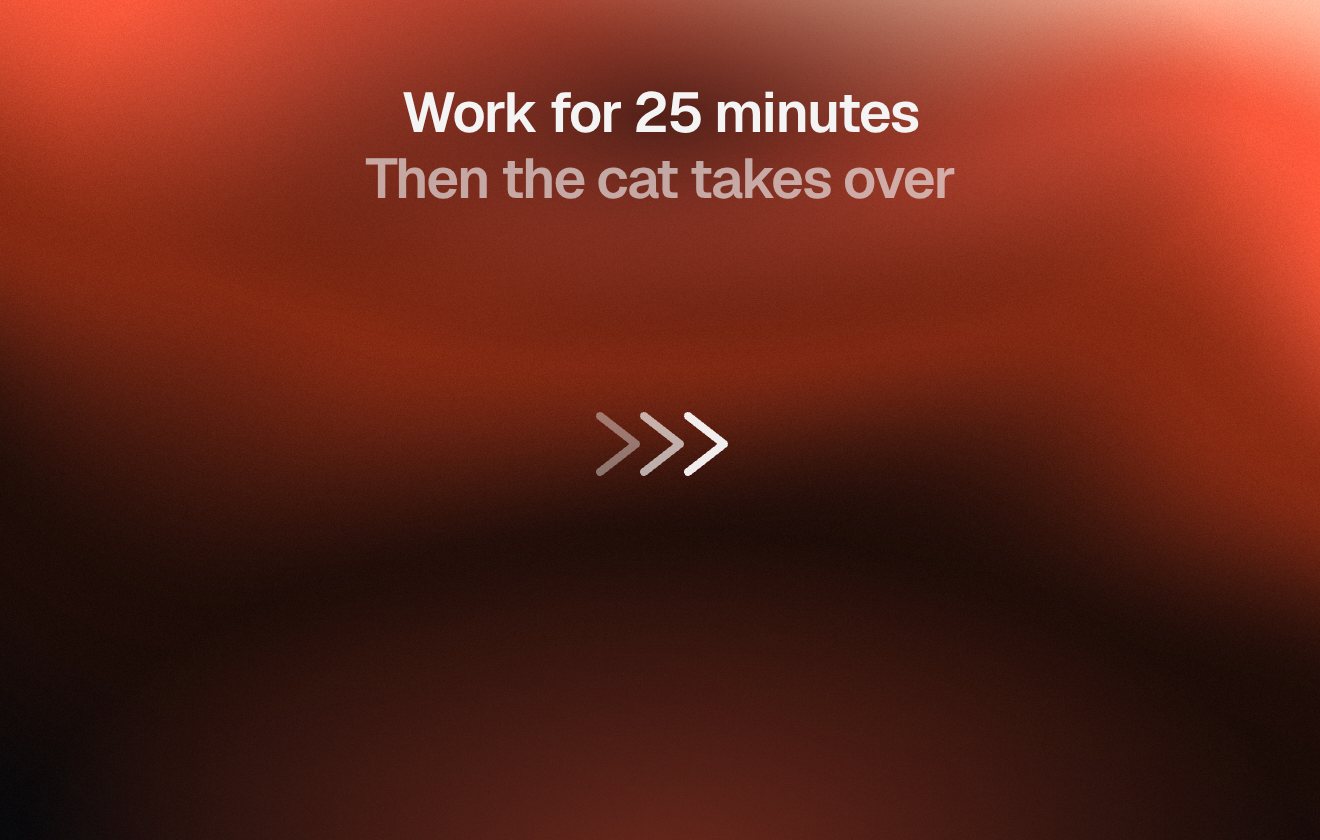
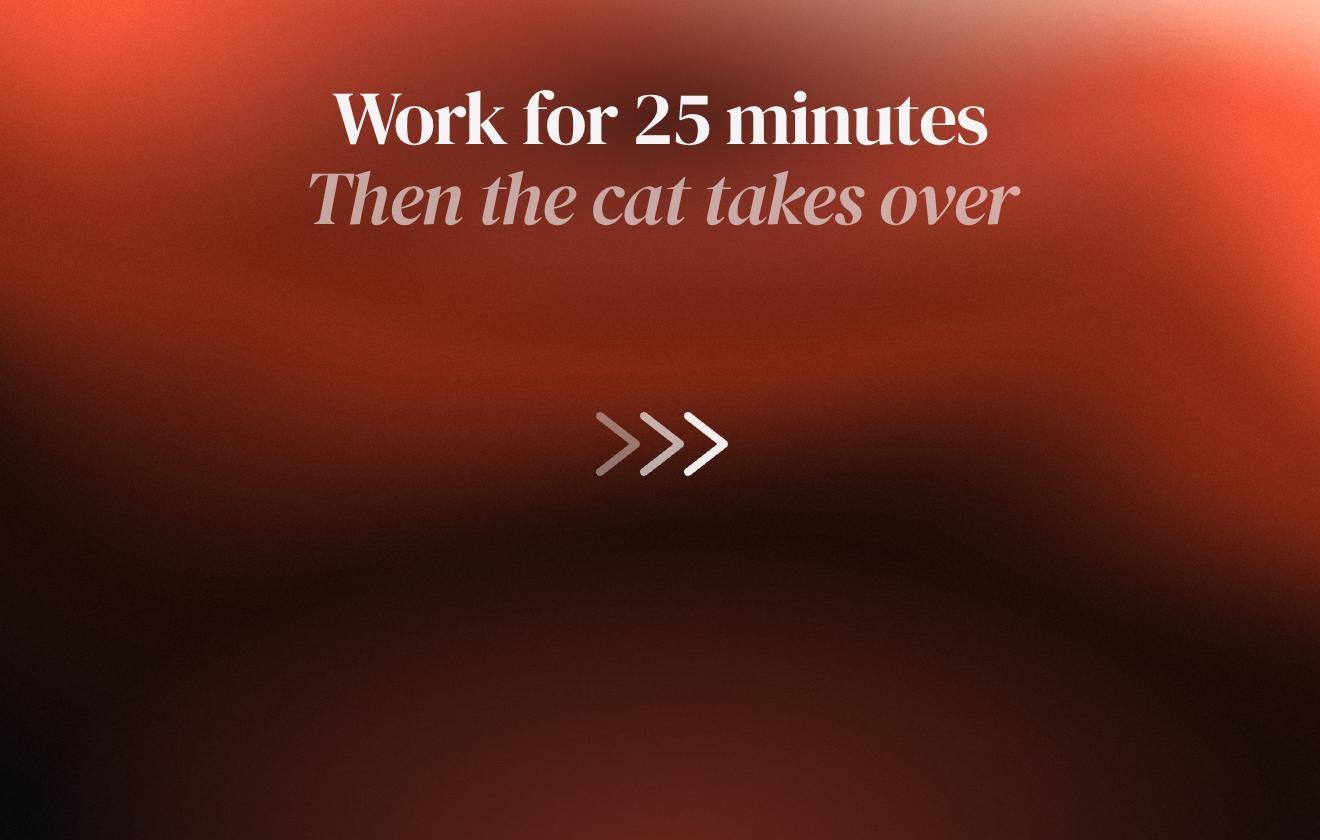
feat(release): set the DMG headline in DM Serif Display (#152)
* feat(release): set the DMG headline in Instrument Serif

Fé meant a serif, not a sans, for the logo and titles. The site moved
to Instrument Serif, so the installer headline follows: 400 at 42 px
(serifs need more size), tight line height, and the second line in
italic as on the hero. The render script now checks that both serif
faces loaded.

Claude-Session: https://claude.ai/code/session_01NzgfqKYP3hZHKi3AinxWEB

* feat(release): switch the DMG headline to DM Serif Display

Fé found Instrument Serif too delicate and picked DM Serif Display, a
bolder serif, for the site. The installer headline follows at 38 px
with the site's h1 tracking (-0.02em) and line height (1.05); the
second line stays italic.

Claude-Session: https://claude.ai/code/session_01NzgfqKYP3hZHKi3AinxWEB

---------

Changed region(s): [[0.2174, 0.0929, 0.7765, 0.2786]]

diff --git a/scripts/dmg-background/background.html b/scripts/dmg-background/background.html
@@ -14,8 +14,9 @@
 <meta charset="utf-8">
 <title>Maramao DMG background</title>
 <style>
-  /* Geist, the site's sans for the wordmark and titles (site/fonts, OFL 1.1) */
-  @font-face { font-family: "Geist"; src: url("../../site/fonts/geist-latin.wght.woff2") format("woff2"); font-weight: 100 900; font-display: block; }
+  /* DM Serif Display, the site's serif for the wordmark and titles (site/fonts, OFL 1.1) */
+  @font-face { font-family: "DM Serif Display"; src: url("../../site/fonts/dm-serif-display-latin-400.woff2") format("woff2"); font-weight: 400; font-style: normal; font-display: block; }
+  @font-face { font-family: "DM Serif Display"; src: url("../../site/fonts/dm-serif-display-latin-400-italic.woff2") format("woff2"); font-weight: 400; font-style: italic; font-display: block; }
   html, body { margin: 0; background: #08080a; }
   .bg { position: relative; width: 660px; height: 420px; overflow: hidden; background: #08080a; font-family: -apple-system, "Inter", "Helvetica Neue", Arial, sans-serif; }
   .grainient { position: absolute; inset: 0; }
@@ -23,8 +24,8 @@
   /* A warm glow under the icons and a dark veil behind the headline, as on the site */
   .glow { position: absolute; inset: 0; background: radial-gradient(70% 60% at 50% 105%, rgb(255 90 60 / 38%), transparent 70%); }
   .veil { position: absolute; inset: 0; background: radial-gradient(60% 40% at 50% 14%, rgb(8 8 10 / 70%), transparent 75%); }
-  h1 { position: absolute; left: 0; right: 0; top: 40px; margin: 0; text-align: center; color: #f4f4f5; font-family: "Geist", -apple-system, "Helvetica Neue", Arial, sans-serif; font-size: 28px; font-weight: 600; letter-spacing: -.03em; line-height: 1.18; }
-  h1 span { color: rgb(244 244 245 / 62%); }
+  h1 { position: absolute; left: 0; right: 0; top: 40px; margin: 0; text-align: center; color: #f4f4f5; font-family: "DM Serif Display", Georgia, serif; font-size: 38px; font-weight: 400; letter-spacing: -.02em; line-height: 1.05; }
+  h1 span { color: rgb(244 244 245 / 62%); font-style: italic; }
   .arrow { position: absolute; left: 290px; top: 202px; }
   .icon { position: absolute; top: 158px; width: 128px; text-align: center; color: #fff; font-size: 13px; }
   .icon img, .icon svg { display: block; width: 128px; height: 128px; }
